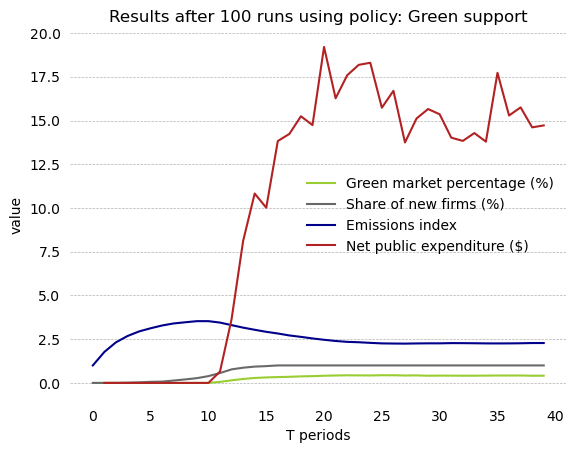
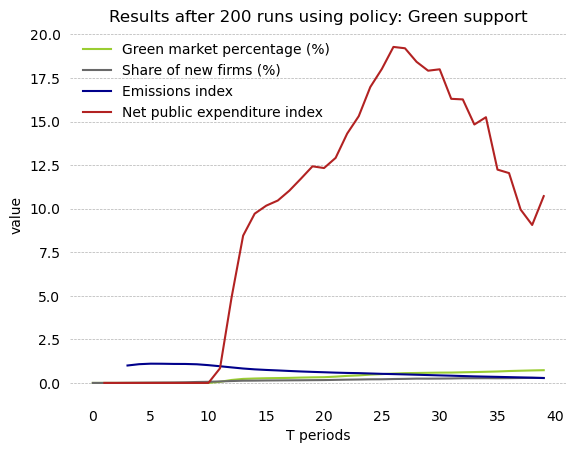
profit roi fixed to t-1 (offer happens first) 200 runs + figures

diff --git a/model.py b/model.py
@@ -219,7 +219,8 @@ class Simulation:
         for each in self.consumers.values():
             self.emissions += each.driving()
         self.report.loc[self.t, 'emissions'] = self.emissions
-        self.report.loc[self.t, 'emissions_index'] = self.emissions / self.report.loc[0, 'emissions']
+        if self.t > 2:
+            self.report.loc[self.t, 'emissions_index'] = self.emissions / self.report.loc[3, 'emissions']
         self.log.info(params.cor.Fore.RED + f"Emissions at t {self.t} was {self.emissions:,.2f}. "
                                             f"Emissions index: {self.report.loc[self.t, 'emissions_index']:.4f}")
         self.emissions = 0
@@ -234,9 +235,9 @@ def main(policy, verbose=False):
 if __name__ == '__main__':
     # Available policies are: 'max_e', 'tax', 'discount', 'green_support'
     # Available levels are: 'low' and 'high'
-    # pol, level = None, None
-    pol = 'discount'
-    level = 'low'
+    pol, level = None, None
+    # pol = 'discount'
+    # level = 'low'
     p = {'policy': pol, 'level': level}
-    v = True
+    v = False
     s = main(p, v)

diff --git a/firms.py b/firms.py
@@ -43,7 +43,7 @@ class Firm:
             return
         # Here we include in the profit per car the quantity sold * the net gain between sales price and production cost
         for tech in self.cars:
-            self.profit[tech][self.sim.t] += self.sold_cars[tech][self.sim.t] * \
+            self.profit[tech][self.sim.t] += self.sold_cars[tech][self.sim.t - 1] * \
                                              (self.cars[tech].sales_price - self.cars[tech].production_cost)
 
     def update_market_share(self, total_cars_sold):
@@ -177,7 +177,7 @@ class Firm:
         # ROI is dependent on each vehicle
         # TODO: Confirm that we will diverge from formula and calculate ROI for the whole period.
         if self.investments[car.type][self.sim.t - 1] > 0:
-            return params.p_lambda * car.production_cost * self.sold_cars[car.type][self.sim.t] / \
+            return params.p_lambda * car.production_cost * self.sold_cars[car.type][self.sim.t - 1] / \
                    self.investments[car.type][self.sim.t - 1]
         else:
             return 0

diff --git a/cars.py b/cars.py
@@ -46,6 +46,7 @@ class Vehicle:
             # Only for green cars that perform less than average benchmark
             if self.type == 'green' and self.emissions() < self.firm.sim.e:
                 policy_value = params.green_support[self.firm.sim.policy['level']] * e_parameter
+        # TODO: Although sales price is full, probably firms should receive value deduced from iva and policy tax?
         self.sales_price = (1 + params.iva) * (1 + params.p_lambda) * \
                            (1 + policy_tax) * self.production_cost - 1 + policy_value
         return policy_tax * self.production_cost + policy_value

diff --git a/generalization.py b/generalization.py
@@ -87,6 +87,6 @@ def running(n=10):
 
 if __name__ == '__main__':
     t0 = time.time()
-    m = 100
+    m = 200
     running(m)
     print(f'This run took {time.time() - t0:.2f} seconds!')

diff --git a/Notes.md b/Notes.md
@@ -8,3 +8,4 @@ algumas firmas não vendem carros.
 period.
 4. A firma que é eliminada pode ser utilizada como imitação, dentre as alternativas aleatórias, logo depois é 
 eliminada. 
+5. **Do discounts and taxes paid/received by consumers affect value received by firms?** 
